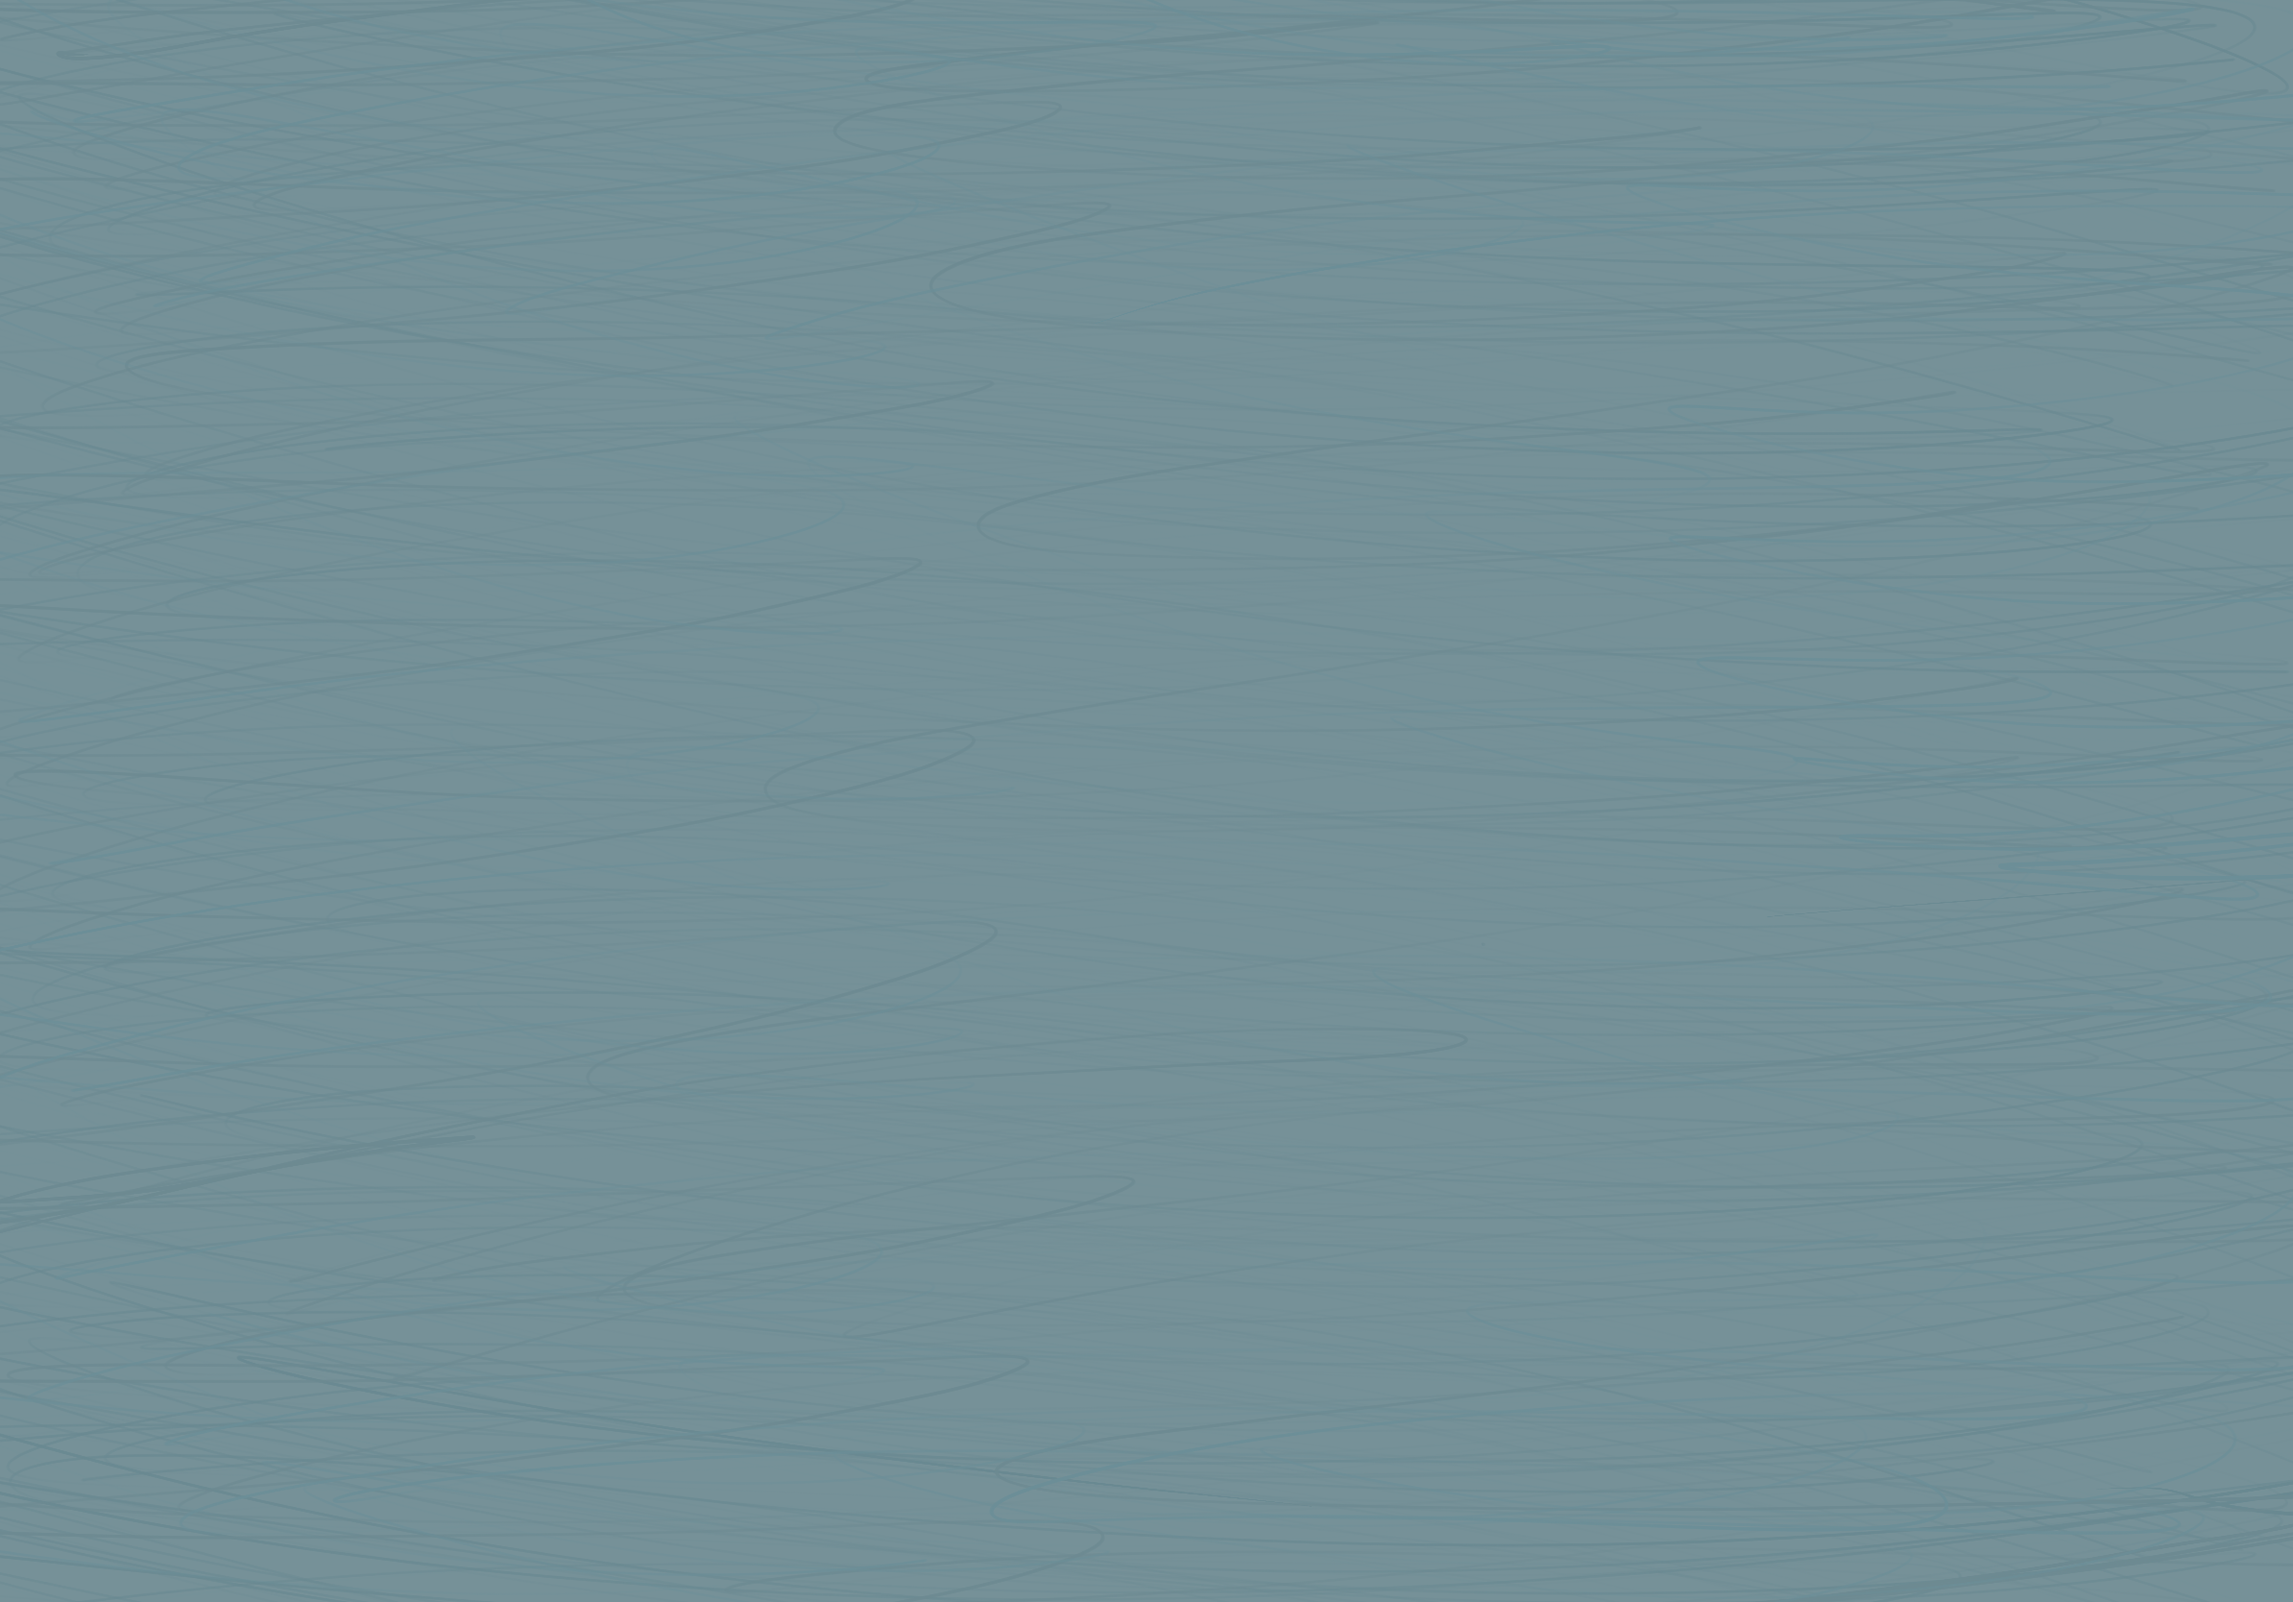
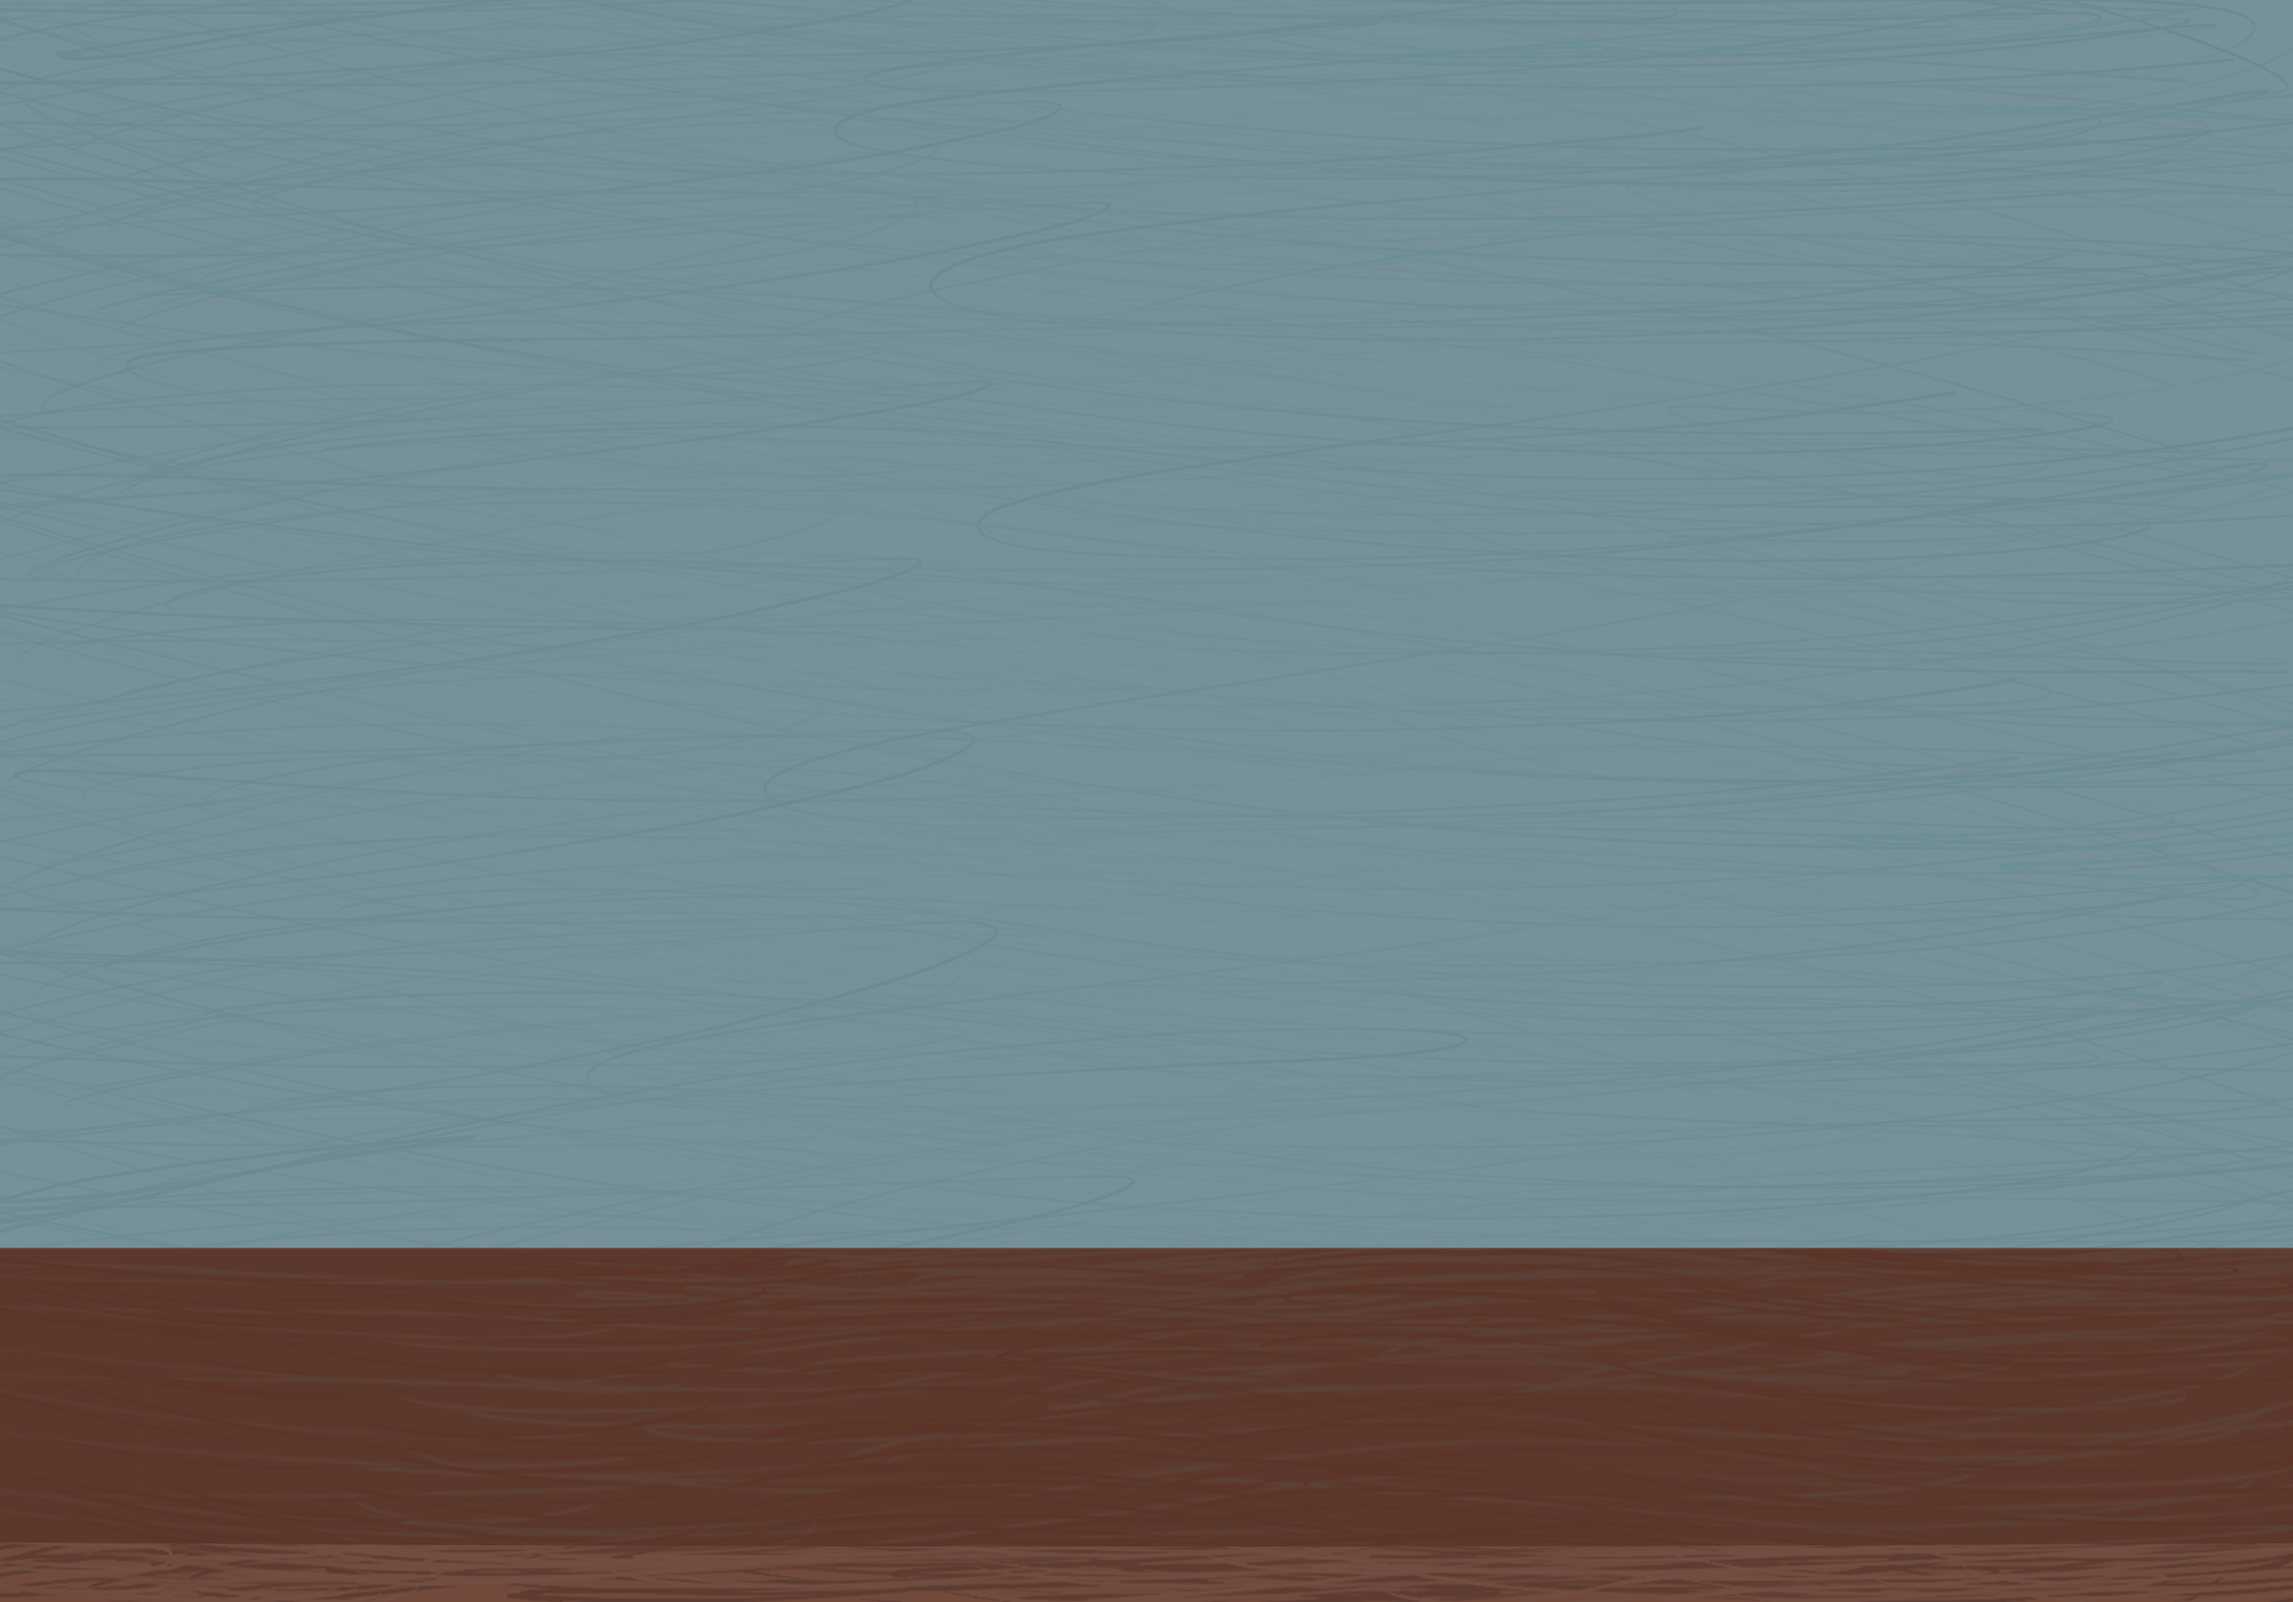
Started work gameplay; created game start up and added Background

Changed region(s): [[0.0, 0.7794, 1.0, 1.0]]

diff --git a/gameplay.py b/gameplay.py
@@ -3,3 +3,33 @@ Author: Nicole
 Date: 10-19-2026
 Description:
 """
+import pygame
+
+def add_background_image():
+    background_image = pygame.image.load("assets/Background.PNG")
+    background_image = pygame.transform.scale(background_image, ( game_window_height, game_window_width))
+    game_window.blit(background_image, (0, 0))
+    pygame.display.update()
+
+
+
+# Screen setup
+pygame.init()
+game_window_width = 894
+game_window_height = 1280
+game_window = pygame.display.set_mode((game_window_height, game_window_width))
+game_running = True
+
+# Starts game
+while game_running == True:
+
+    for event in pygame.event.get():
+
+        # Allows player to x out
+        if event.type == pygame.QUIT:
+            game_running = False
+        if event.type == pygame.KEYDOWN:
+            if event.key == pygame.K_ESCAPE:
+                game_running = False
+
+    add_background_image()
